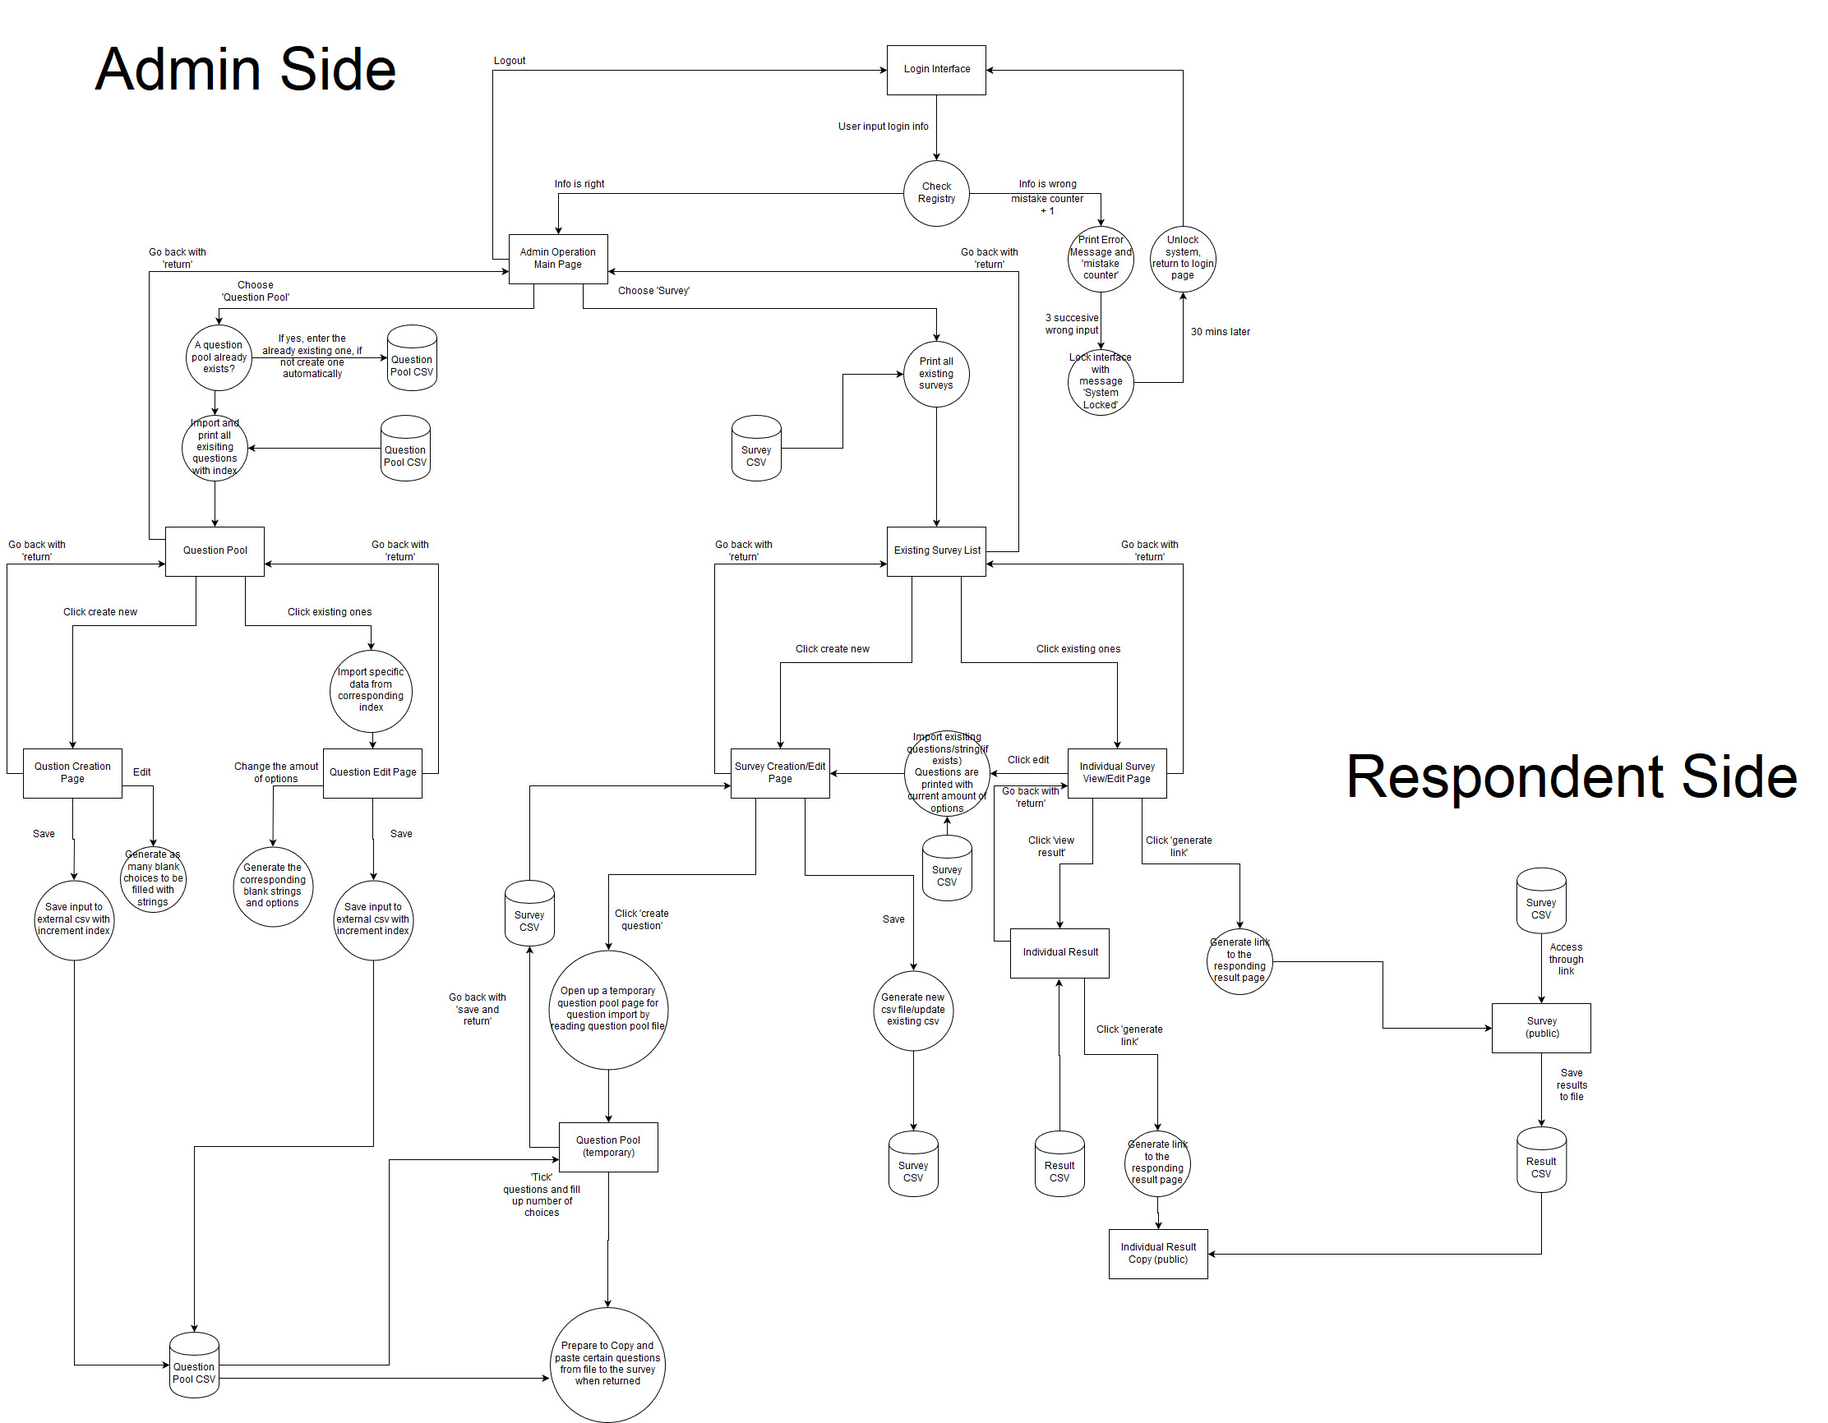
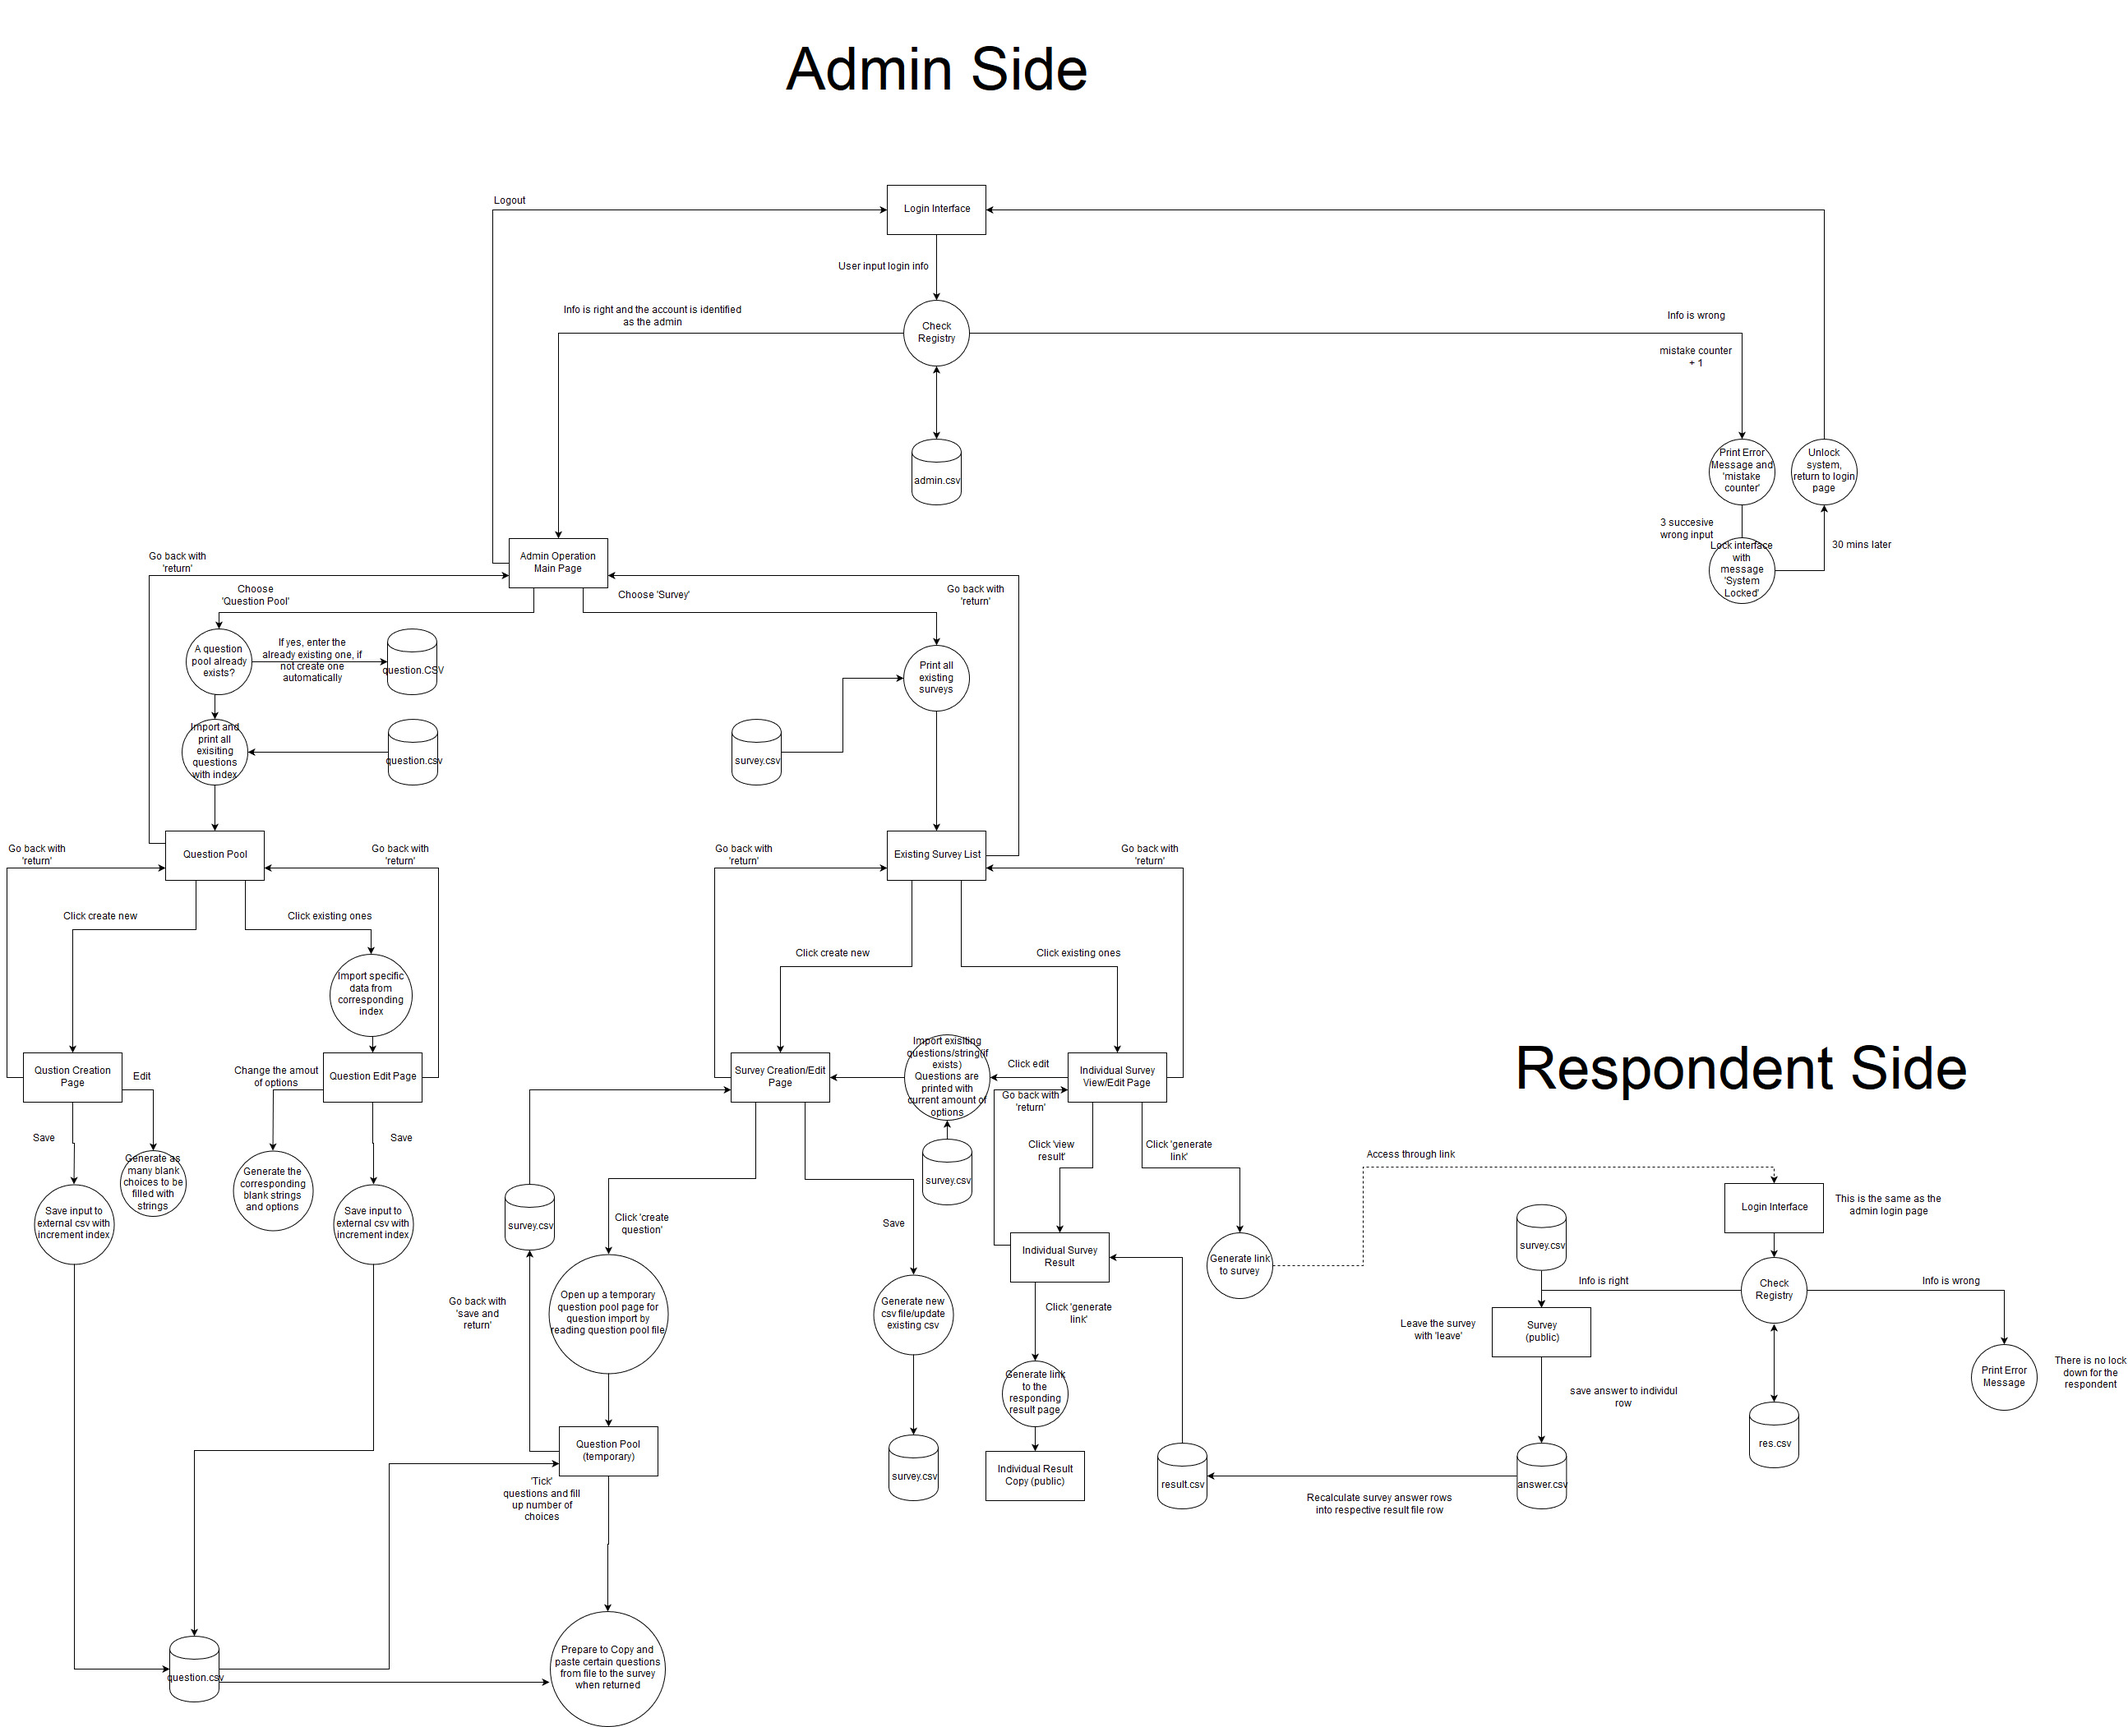
updated system design, more debugging on the io files

diff --git a/main/csv_io.py b/main/csv_io.py
@@ -15,7 +15,7 @@ def csv_write(data, f_name):
         writer = DictWriter(csv_f, fieldnames=col_name)
         for i in data:
             writer.writerow(i)
-
+        csv_f.close()
 
 def csv_append(data, f_name):
     col_name = get_col_name(f_name)
@@ -26,6 +26,7 @@ def csv_append(data, f_name):
     with open(f_name, 'a+') as csv_f:
         writer = DictWriter(csv_f, fieldnames=col_name)
         writer.writerow(data)
+        csv_f.close()
 
 
 def csv_read(f_name):
@@ -39,6 +40,7 @@ def csv_read(f_name):
         reader = DictReader(csv_f, fieldnames=col_name)
         for row in reader:
             r_data.append(row)
+        csv_f.close()
         return r_data
 
 
@@ -49,7 +51,7 @@ def get_col_name(f_name):
 
 class Base:
     @classmethod
-    def get_col(cls, f_name):
+    def getkey(cls, f_name):
         col_name = get_col_name(f_name)
         return col_name
 
@@ -70,7 +72,8 @@ class Base:
     def update(cls, f_name, i_name, inst_id, **kwargs):
         inst = csv_read(f_name)
         inst_id_li = [str(i.get(i_name)) for i in inst]
-        if inst_id not in inst_id_li:
+        inst_id = str(inst_id)
+        if str(inst_id) not in inst_id_li:
             raise ValueError("Invalid ID")
         else:
             i = inst_id_li.index(inst_id)
@@ -112,16 +115,17 @@ class Base:
 class Survey(Base):
     
     @staticmethod
-    def get_col():
+    def getkey():
         return super(Survey, Survey).\
-            get_col("survey.csv")
+            getkey("survey.csv")
 
     @staticmethod
     def load(survey_id=None):
         if survey_id == None:
             return super(Survey, Survey).\
-                load("survey.csv", "surv_ID", str(survey_id))
+                load("survey.csv", "surv_ID", survey_id)
         else:
+            dict = {}
             dict = super(Survey, Survey).\
                 load("survey.csv", "surv_ID", str(survey_id))
             dict['ques_ID'] = dict.get("ques_ID").split("/")
@@ -136,8 +140,10 @@ class Survey(Base):
     @staticmethod
     def append(data):
         data['ques_ID'] = '/'.join(data.get("ques_ID"))
+        buff = ''
         buff = data['ques_ID']
-        data['surv_ID'] = str(data['surv_ID'])   
+        data['surv_ID'] = str(data['surv_ID'])
+        dict = {}   
         dict = super(Survey, Survey).\
             append("survey.csv", "surv_ID", data)
         Result.append({'surv_ID': dict.get('surv_ID'),'ques_ID': buff,'result': ''})
@@ -152,13 +158,14 @@ class Survey(Base):
 class Question(Base):
     
     @staticmethod
-    def get_col(choi_num):
-        col = super(Question, Question).\
-            get_col("question.csv")
+    def getkey(choi_num):
+        col = []
+        col.extend(super(Question, Question).\
+            getkey("question.csv"))
         col.pop()
         i = 1
         while i <= choi_num:
-            col.append(' '.join(['choice',str(i)]))
+            col.append("".join(['choice_',str(i)]))
             i += 1
         return col
 
@@ -166,15 +173,16 @@ class Question(Base):
     def load(ques_id=None):
         if ques_id == None:
             return super(Question, Question).\
-                load("question.csv", "ques_ID", str(ques_id))
+                load("question.csv", "ques_ID", ques_id)
         else:
+            dict = {}
             dict = super(Question, Question).\
                 load("question.csv", "ques_ID", str(ques_id))               
             i = 1
             choice = {}
             buf = []           
             for j in list(dict.get("choi_content").split("/")):
-                buf = ' '.join(['choice',str(i)])
+                buf = "".join(['choice_',str(i)])
                 choice[buf] = j
                 i += 1
             dict.pop('choi_content')
@@ -188,7 +196,7 @@ class Question(Base):
         choice = []
         remove = []
         while j - 1 < len(kwargs) - 3:
-            buf = ' '.join(['choice',str(j)])
+            buf = "".join(['choice_',str(j)])
             choice.append(str(kwargs.get(buf)))
             remove.append(buf)
             j += 1
@@ -205,8 +213,9 @@ class Question(Base):
         j = 1
         choice = []
         remove = []
+        buf = ""
         while j - 1 < len(data) - 3:
-            buf = ' '.join(['choice',str(j)])
+            buf = "".join(['choice_',str(j)])
             choice.append(str(data.get(buf)))
             remove.append(buf)
             j += 1
@@ -226,12 +235,13 @@ class Question(Base):
 class Result(Base):
 
     @staticmethod
-    def get_col():
+    def getkey():
         return super(Result, Result).\
-            get_col("result.csv")
+            getkey("result.csv")
 
     @staticmethod
     def load(survey_id=None):
+        dict = {}
         dict = super(Result, Result).\
             load("result.csv", "surv_ID", str(survey_id))
         dict['ques_ID'] = dict.get("ques_ID").split("/")
@@ -240,7 +250,9 @@ class Result(Base):
 
     @staticmethod
     def update(survey_id=None):
-        dl = Answer.load(1,None)       
+        dl = []
+        dl = Answer.load(1,None)
+        buff = []       
         buff = [0]*len(dl[0].get('answer').split("/"))
         temp = []
         k = 0     
@@ -254,6 +266,7 @@ class Result(Base):
         while i < len(dl[0].get('answer').split("/")): 
             buff[i] = str(buff[i])
             i += 1
+        dict = {}
         dict = {'result':''}
         dict['result'] = "/".join(buff)           
         return super(Result, Result).\
@@ -274,9 +287,9 @@ class Result(Base):
 class Admin(Base):
 
     @staticmethod
-    def get_col():
+    def getkey():
         return super(Admin, Admin).\
-            get_col("admin.csv")
+            getkey("admin.csv")
 
     @staticmethod
     def load(user_id=None):
@@ -302,9 +315,9 @@ class Admin(Base):
 class Res(Base):
 
     @staticmethod
-    def get_col():
+    def getkey():
         return super(Res, Res).\
-            get_col("res.csv")
+            getkey("res.csv")
 
     @staticmethod
     def load(user_id=None):
@@ -329,9 +342,10 @@ class Res(Base):
 class Answer(Base):
     
     @staticmethod
-    def get_col():
-        list = super(Answer, Answer).\
-            get_col("answer.csv")
+    def getkey():
+        list = []
+        list.extend(super(Answer, Answer).\
+            getkey("answer.csv"))
         list[0] = "survey_ID"
         list.insert(0,"user_ID")
         return list
@@ -342,17 +356,20 @@ class Answer(Base):
             answer = []
             answer = csv_read("answer.csv")
             result = []
+            i = 0
             for i in answer:
                if (i.get('s/u_ID').split("/"))[0] == str(survey_id):
                     result.append(i)
             return result
         else:
+            id = ""
             id = '/'.join([str(survey_id),str(user_id)])
             return  super(Answer, Answer).\
                 load("answer.csv", "s/u_ID", id)
 
     @staticmethod
     def update(survey_id=None, user_id=None, **kwargs):
+        id = ""
         id = '/'.join([str(survey_id),str(user_id)])
         kwargs.pop('user_ID')
         kwargs.pop('survey_ID')
@@ -370,27 +387,29 @@ class Answer(Base):
         dict['answer'] = "/".join(data.get('answer'))
         dict['s/u_ID'] = "/".join([str(data.get('user_ID')),str(data.get('survey_ID'))])
         with open("answer.csv", 'a') as csv_f:
-            writer = DictWriter(csv_f, fieldnames=super(Answer, Answer).get_col("answer.csv"))
+            writer = DictWriter(csv_f, fieldnames=super(Answer, Answer).getkey("answer.csv"))
             writer.writerow(dict)
         
 
     @staticmethod
     def delete(survey_id=None, user_id = None):
         if user_id == None:
+            foo = {}
             foo = {'s/u_ID':[],'ques_ID':[],'answer':[]}  
             answer = []
-            answer = csv_read("answer.csv")
+            answer.extend(csv_read("answer.csv"))
             with open("answer.csv", 'w') as csv_f:
               for i in answer:
                   if (i.get('s/u_ID').split("/"))[0] == str(survey_id):
                     foo['s/u_ID'] = "-1"           
                   else:
-                    for j in super(Answer, Answer).get_col("answer.csv"):
+                    for j in super(Answer, Answer).getkey("answer.csv"):
                         foo[j] = i.get(j)          
                   if foo.get('s/u_ID') != "-1":
-                    writer = DictWriter(csv_f, fieldnames=super(Answer, Answer).get_col("answer.csv"))
+                    writer = DictWriter(csv_f, fieldnames=super(Answer, Answer).getkey("answer.csv"))
                     writer.writerow(foo)
         else:
             id = '/'.join([str(survey_id),str(user_id)])
             return super(Answer, Answer).\
                 delete("answer.csv", "s/u_ID", id)
+
